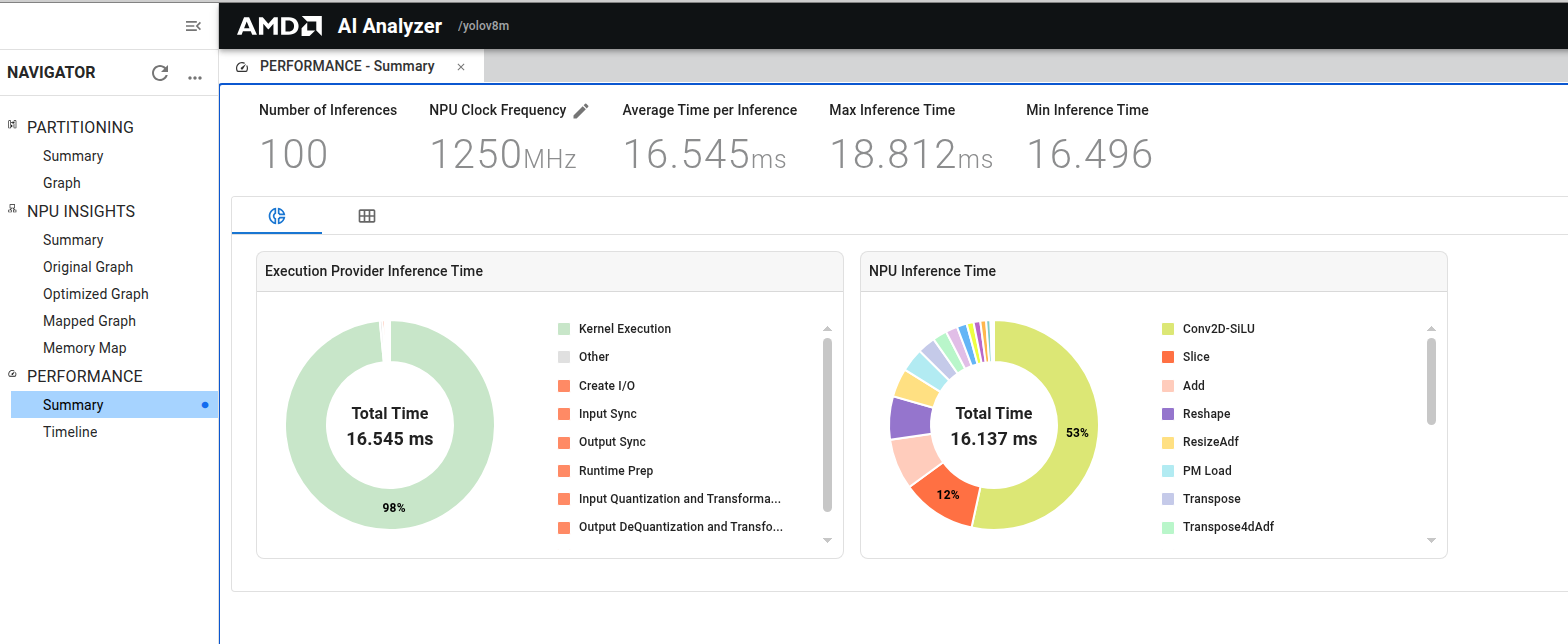
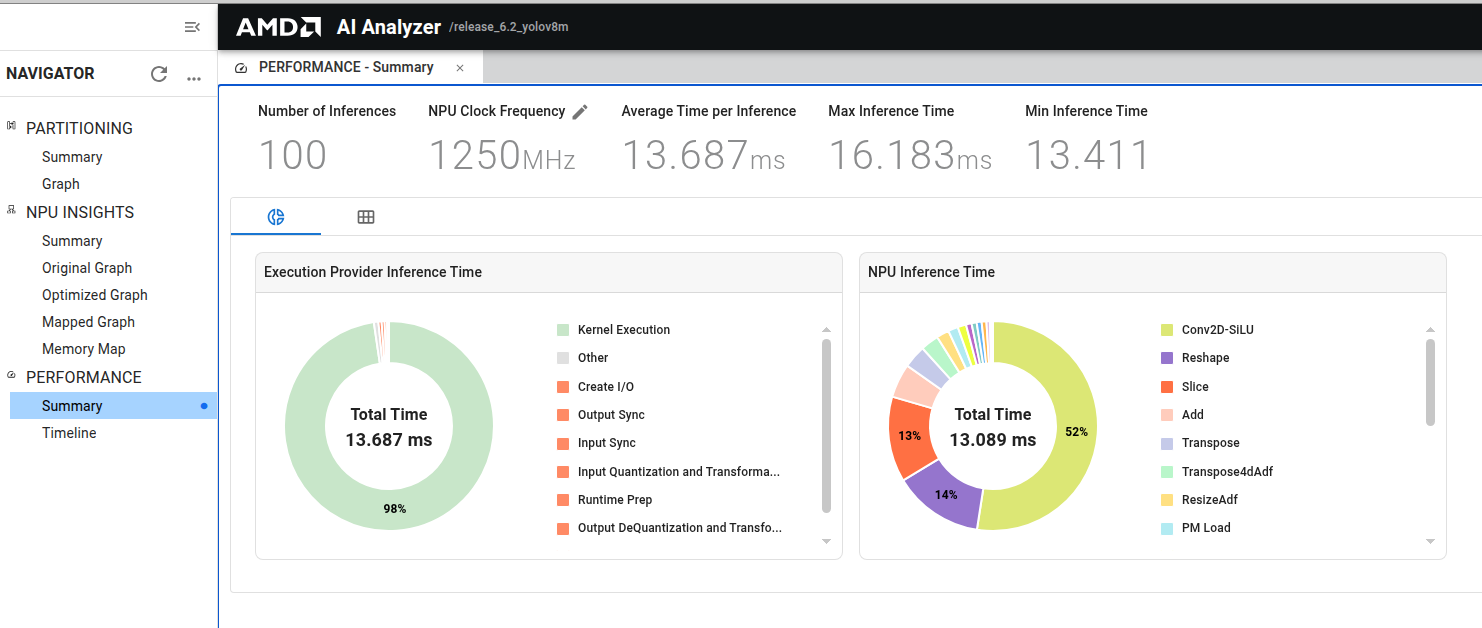
Update inference timing values in README and VART performance image
- Update ONNX Runtime inference time from 22.757ms to 24.441ms
- Update VART inference time from 16.545ms to 13.687ms
- Update vart_perf_summary.png with new performance metrics

diff --git a/versal_2ve/examples/tutorials/yolov8m/README.md b/versal_2ve/examples/tutorials/yolov8m/README.md
@@ -460,7 +460,7 @@ For details on launching AI Analyzer inside docker, see AI Analyzer section of V
 
 ### Using Vitis AI Runtime (VART)
 
-As seen above, the total inference time using the ONNX Runtime Execution Provider is **22.757ms**. By switching to VART, this inference time can be reduced to **16.545 ms**. 
+As seen above, the total inference time using the ONNX Runtime Execution Provider is **24.441ms**. By switching to VART, this inference time can be reduced to **13.687 ms**. 
 VART offloads computation directly to the NPU with minimal CPU involvement, delivering more efficient end-to-end performance compared to ONNX Runtime.
 
 VART is a runtime environment designed for high-efficiency AI model inference on NPU hardware with minimal CPU overhead, and is used for precise end-to-end performance measurement.